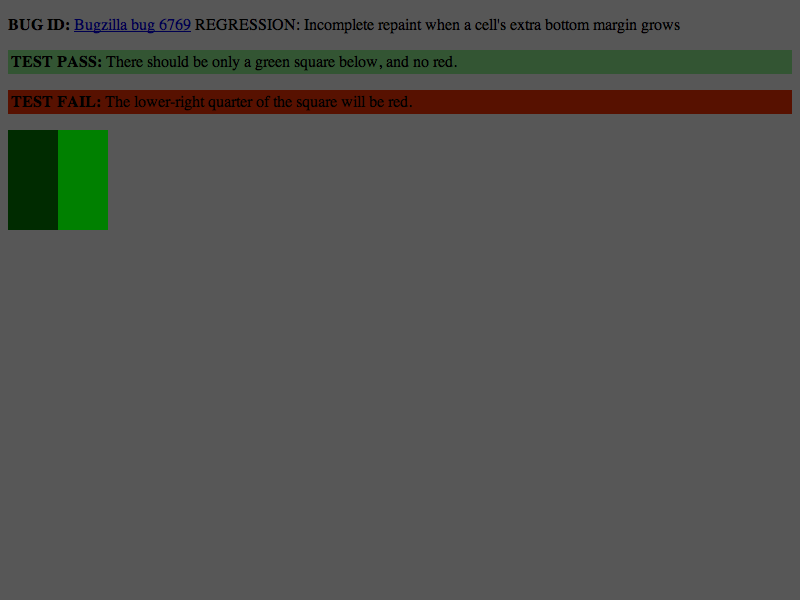
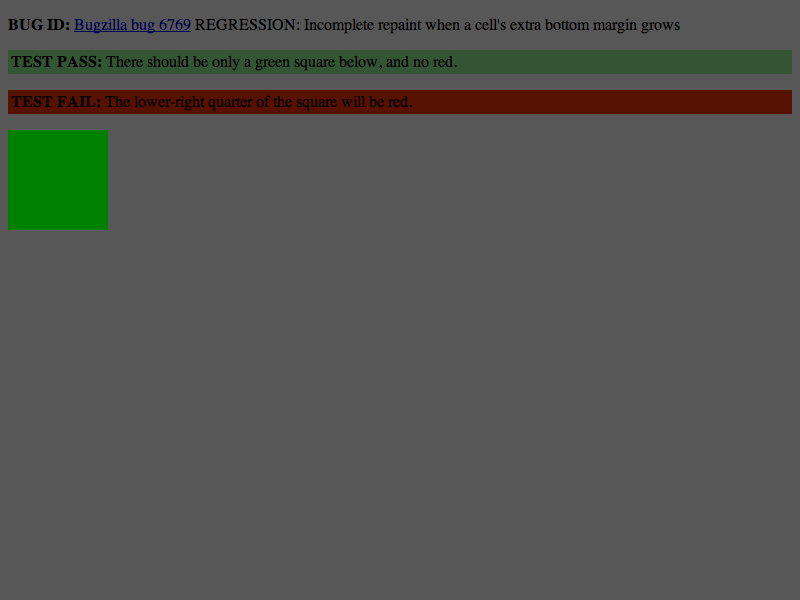
* fast/repaint/table-extra-bottom-grow.html: Removed unneeded line of code.
* fast/repaint/table-extra-bottom-grow-expected.png: Regenerated.
        * fast/repaint/table-extra-bottom-grow-expected.checksum: Regenerated.

git-svn-id: http://svn.webkit.org/repository/webkit/trunk/LayoutTests@14756 268f45cc-cd09-0410-ab3c-d52691b4dbfc

Changed region(s): [[0.0, 0.21, 0.0938, 0.39]]

diff --git a/fast/repaint/table-extra-bottom-grow.html b/fast/repaint/table-extra-bottom-grow.html
@@ -7,7 +7,6 @@
     function repaintTest()
     {
         document.getElementById("t").style.height='100px';
-        document.getElementById("s").style.height='0';
     }
 </script>
 </head>
